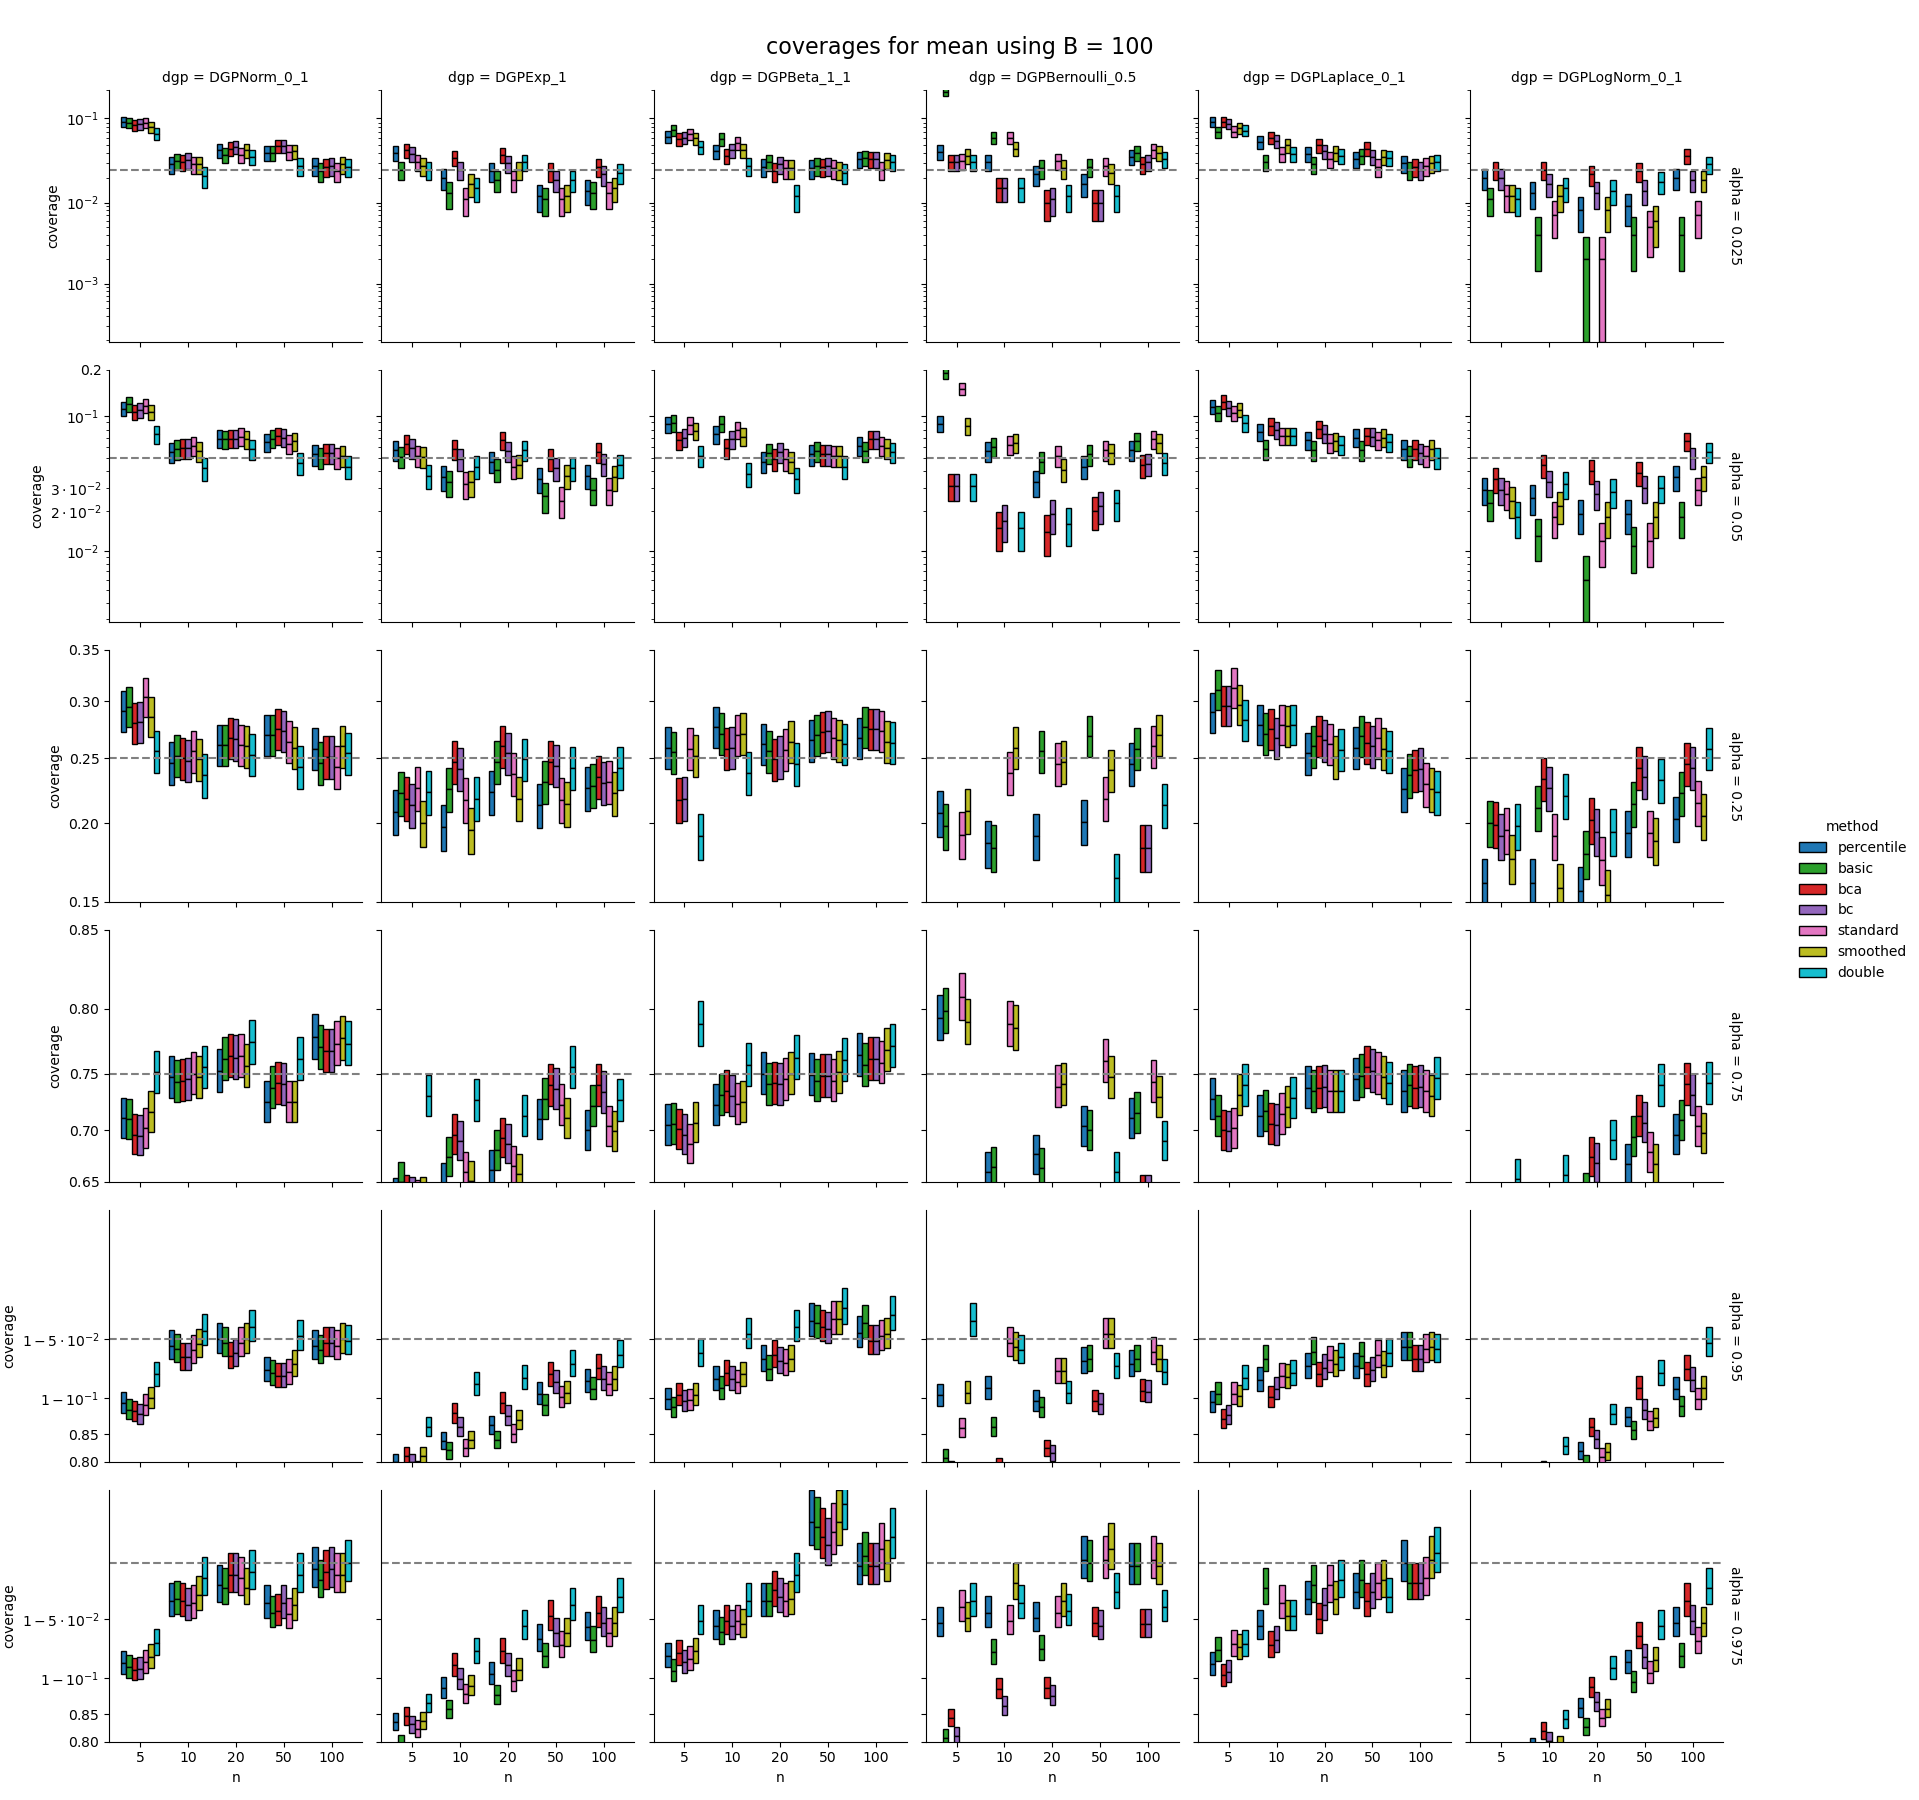
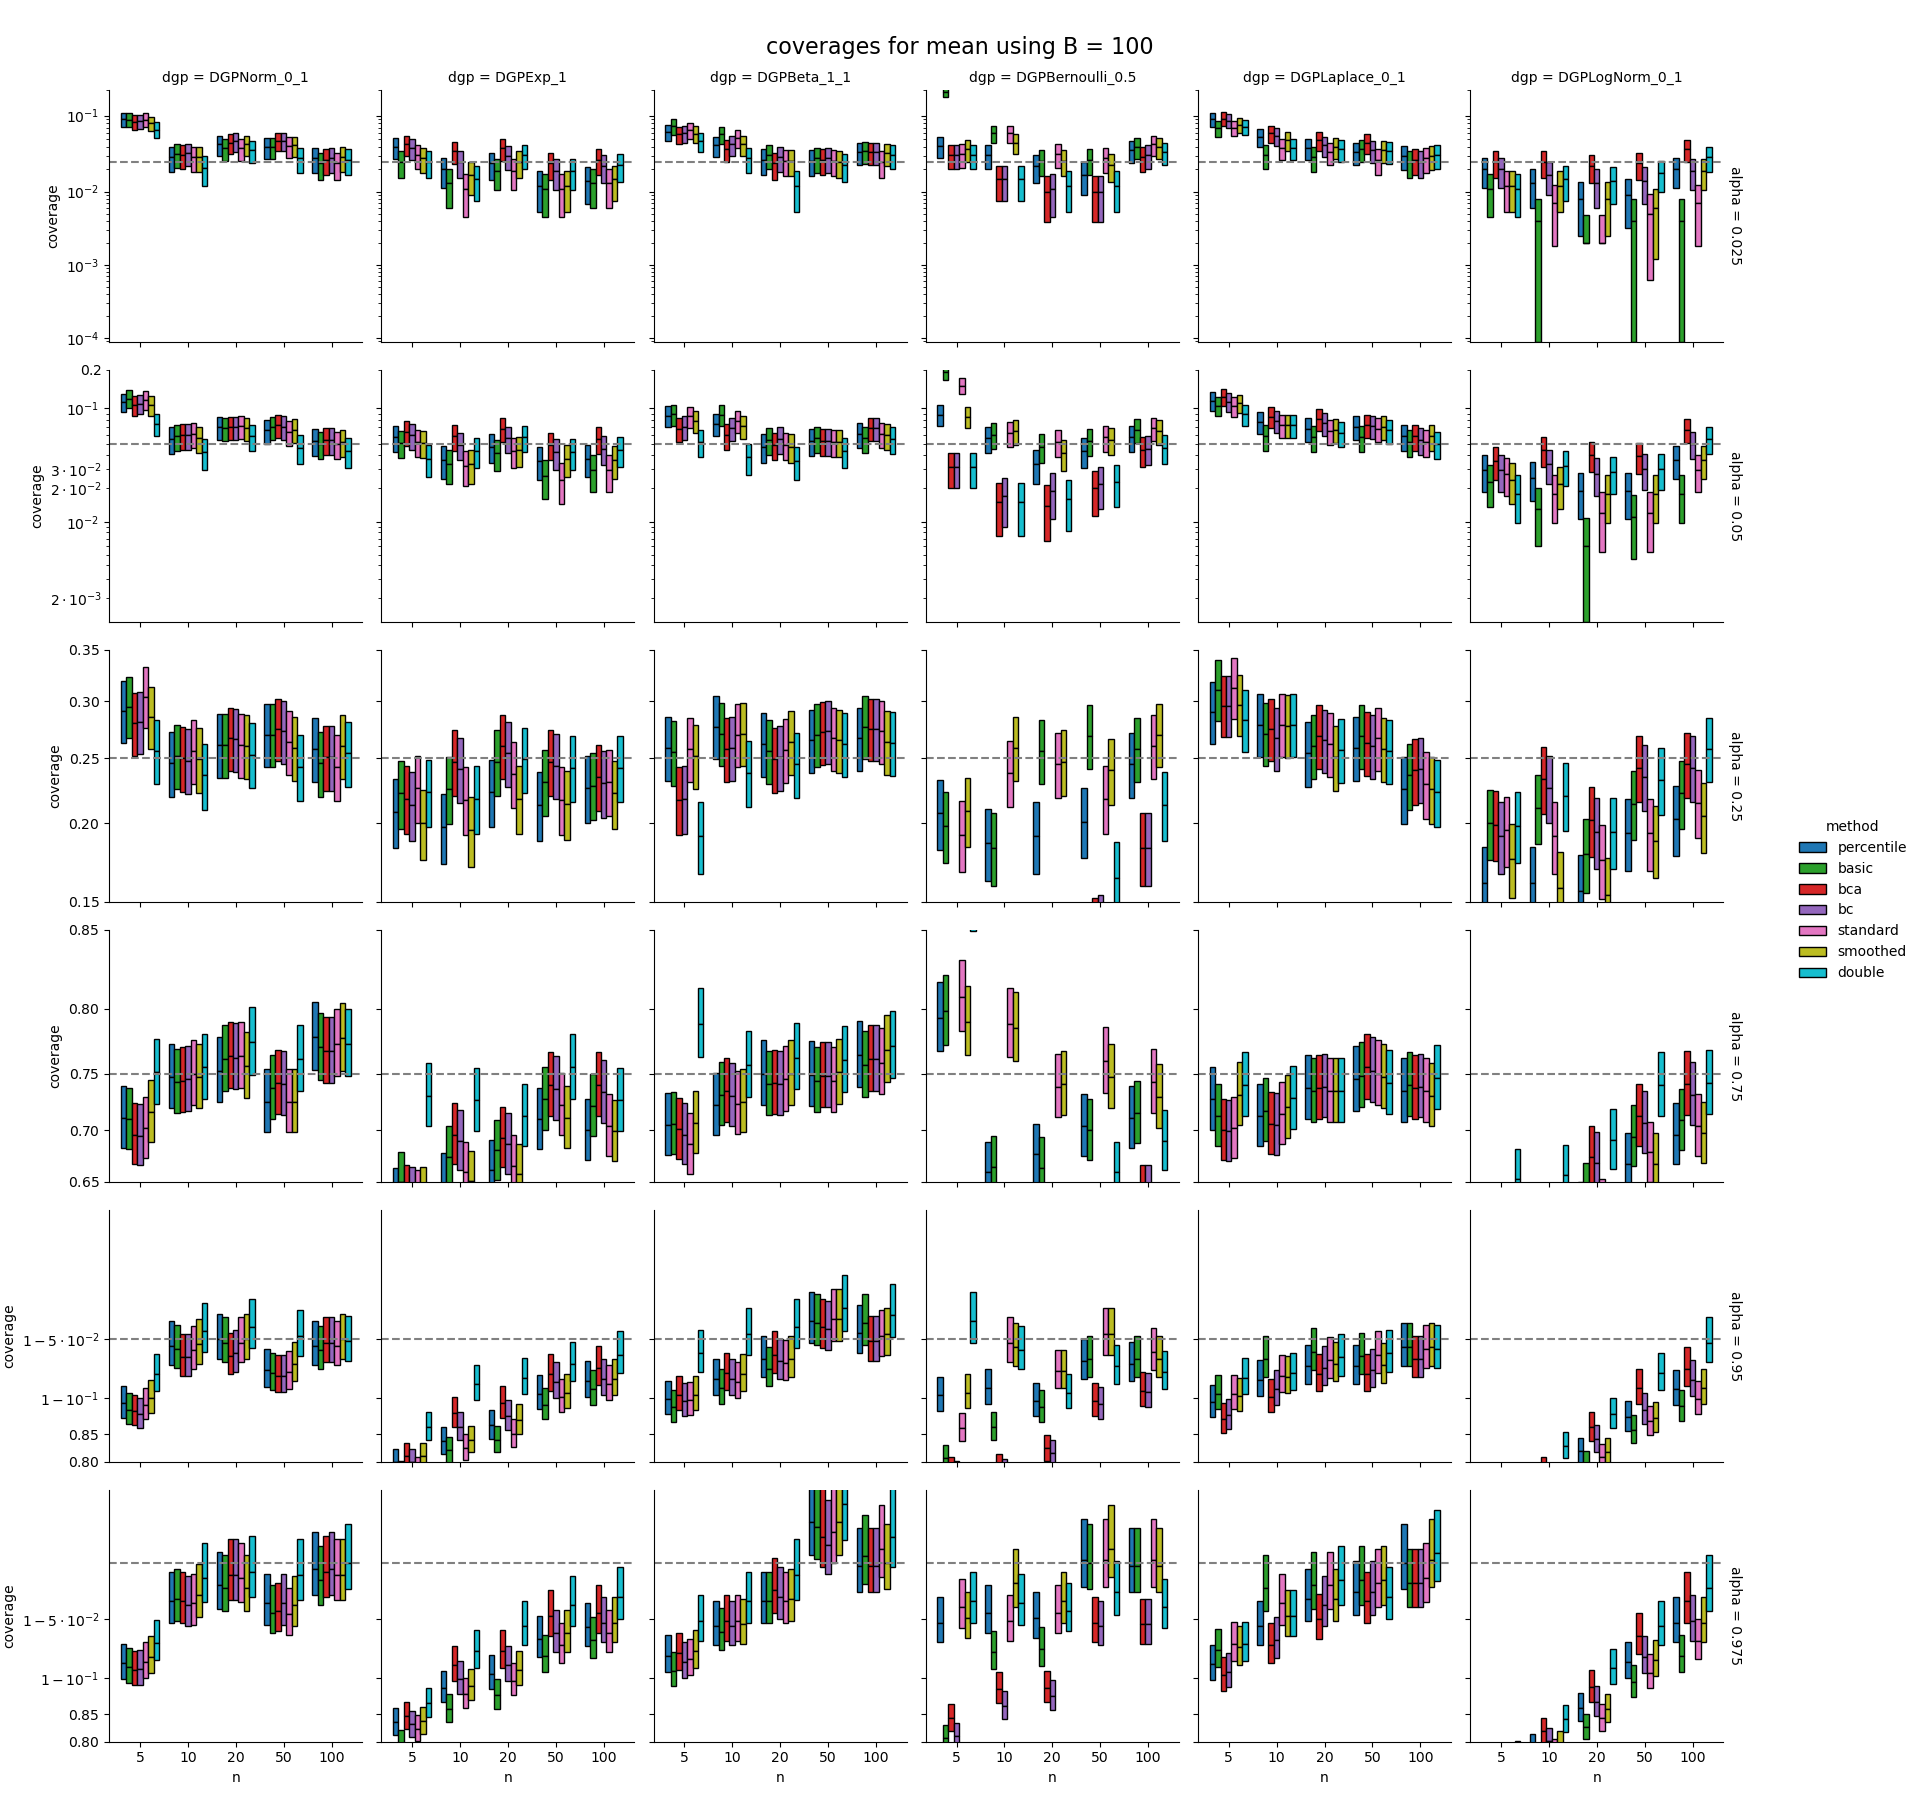
Changed color, fixed CI to 95%

diff --git a/results_visualizations.py b/results_visualizations.py
@@ -90,7 +90,8 @@ def compare_cov_dis_grid(df=None, comparing='coverage', filter_by={'alpha': [0.9
     if comparing == 'coverage':
         g.map_dataframe(plot_coverage_bars, colors=cols, ci=ci, scale=scale)
     else:
-        g.map(sns.boxplot, x, comparing, hue, hue_order=df[hue].unique(), fliersize=0, whis=[(100-ci)/2, 50 + ci/2])
+        g.map(sns.boxplot, x, comparing, hue, hue_order=df[hue].unique(), fliersize=0, whis=[(100-ci)/2, 50 + ci/2],
+              palette=colors)
         ylim = np.nanquantile(df['distance'], (0.01, 0.99))
         g.set(ylim=ylim)
 
@@ -117,7 +118,7 @@ def plot_coverage_bars(data, **kwargs):
     scale = kwargs['scale']
     data['ci'] = np.sqrt(data['coverage'] * (1 - data['coverage']) / data['repetitions'])
     if ci != 'se':
-        data['ci'] *= scipy.stats.norm.ppf(abs(2*ci/100 - 1))
+        data['ci'] *= scipy.stats.norm.ppf(0.5 + ci/200)
     data['low'] = data['coverage'] - data['ci']
 
     n_levels = len(data['method'].unique())
